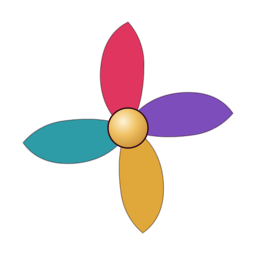
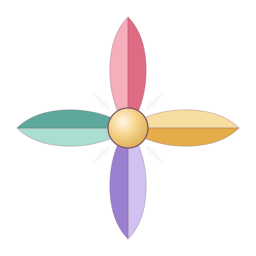
Rework branding into a compass rose: pastel palette, cozy + adventurous
The 4-petal-per-distro concept stays (still one point per merged
distro: Bazzite, SteamOS, Nobara, Mint), but reworked to lean into
what "Rosaline" is actually named for -- a rose, and a nod to Atelier
Resleriana's cozy-but-adventurous tone:

- mark.svg: petals redrawn as symmetric compass-needle/kite shapes at
  true 90-degree spacing (reads more intentional than the old organic,
  unevenly-spaced teardrop petals), each split into a lighter/darker
  half for a faceted-gem look, plus small intercardinal ticks between
  the main points like a real compass rose. Palette softened to pastel
  throughout -- same four hues, gentler, not a from-scratch rebrand.
- wallpaper.svg: warmer dusk gradient instead of cool ink/plum, a
  scatter of small stars for the cozy half, a faint dashed
  travelled-path line curving through the scene for the adventurous
  half (implies a journey without drawing a literal map), watermark
  mark updated to match.
- wordmark.svg, render.py's Plymouth spinner colors, the wallpaper's
  gnome-background-properties fallback color, and the Plymouth boot
  script's own hardcoded background gradient (the one piece not driven
  by render.py, easy to miss) all updated to match.
- README.md documents the concept and the new palette.

All system_files/ PNGs/SVGs regenerated via render.py and spot-checked
at both full wallpaper resolution and down to a 16px icon.

Changed region(s): [[0.0625, 0.0625, 0.9375, 0.9375]]

diff --git a/assets/branding/render.py b/assets/branding/render.py
@@ -22,7 +22,7 @@ WALLPAPER_SVG = HERE / "wallpaper.svg"
 
 ICON_SIZES = [16, 22, 24, 32, 48, 64, 128, 256, 512]
 
-PETAL_COLORS = ["#E0355F", "#7C4DBB", "#E0A83A", "#2E9CA6"]
+PETAL_COLORS = ["#F0879B", "#F3C56E", "#B79FE3", "#7FC4B8"]
 
 
 def render_icons():
@@ -72,8 +72,8 @@ def render_wallpaper():
     <filename>/usr/share/backgrounds/rosaline-os/rosaline-default.png</filename>
     <options>zoom</options>
     <shade_type>solid</shade_type>
-    <pcolor>#16121A</pcolor>
-    <scolor>#16121A</scolor>
+    <pcolor>#242038</pcolor>
+    <scolor>#242038</scolor>
   </wallpaper>
 </wallpapers>
 """

diff --git a/assets/branding/README.md b/assets/branding/README.md
@@ -4,13 +4,15 @@ Editable source files for Rosaline OS's visual identity. These are not
 copied into the image directly — `render.py` rasterizes them into the
 actual installed files under `system_files/`.
 
-- `mark.svg` — the icon/logo mark alone (four-petal bloom: one petal per
-  merged distro, unified around a center gem). Used for the hicolor icon
-  theme, pixmaps, and as the base of the wallpaper's watermark.
+- `mark.svg` — the icon/logo mark alone (a four-point compass rose:
+  one point per merged distro, unified around a center gem). Used for
+  the hicolor icon theme, pixmaps, and as the base of the wallpaper's
+  watermark.
 - `wordmark.svg` — mark + "ROSALINE / OPERATING SYSTEM" lockup, on a
   transparent background. Used as the Plymouth boot logo.
-- `wallpaper.svg` — the default desktop wallpaper (dark gradient +
-  colored aura + watermark bloom), 3840×2160.
+- `wallpaper.svg` — the default desktop wallpaper (dusk gradient,
+  colored aura, a scatter of stars, a faint travelled-path line, and
+  the watermark mark), 3840×2160.
 - `render.py` — regenerates every PNG/SVG under `system_files/` from the
   three files above.
 
@@ -18,25 +20,54 @@ actual installed files under `system_files/`.
 
 1. Edit the relevant `.svg` (plain text, no special tools required —
    any vector editor like Inkscape works too if you prefer a GUI).
+   Careful with XML comments: `--` isn't allowed anywhere inside one,
+   only immediately before the closing `-->` — cairosvg fails to parse
+   the whole file otherwise (found the hard way while writing this
+   version).
 2. `pip install cairosvg pillow` (once).
 3. `python3 assets/branding/render.py` from the repo root.
 4. Check `git diff --stat system_files/` to see what changed, and spot
    check a couple of the regenerated PNGs before committing.
 
+## Concept
+
+"Rosaline" reads two ways on purpose: a rose bloom, and a nod to
+*Atelier Resleriana*'s cozy-but-adventurous tone. The mark leans into
+both at once by being a **compass rose** — a shape that's already both
+a flower and a navigation symbol before you even add a theme to it.
+Each of the four points is still one petal per merged distro (Bazzite,
+SteamOS, Nobara, Mint), same idea as the original mark, just redrawn
+as a symmetric needle/kite shape at true 90-degree spacing (a real
+compass rose reads more intentional than the original's organic,
+unevenly-spaced petals) and split into a lighter/darker half each,
+like a faceted gem or a needle catching light from one side. Small
+ticks between the four main points echo a compass rose's
+intercardinal marks.
+
+The wallpaper carries the "cozy" and "adventurous" halves separately:
+a warm dusk sky (not a cold night one) and a scatter of small stars
+for cozy, a faint dashed path curving through the scene for
+adventurous, without literally drawing a map.
+
 ## Palette
 
-| Role          | Hex       |
-|---------------|-----------|
-| Ink (base)    | `#16121A` |
-| Ink (light)   | `#1B1420` |
-| Rose          | `#E0355F` |
-| Violet        | `#7C4DBB` |
-| Gold          | `#E0A83A` |
-| Teal          | `#2E9CA6` |
-| Off-white     | `#F5EDE9` |
+| Role              | Hex       |
+|-------------------|-----------|
+| Dusk sky (top)    | `#242038` |
+| Dusk sky (mid)    | `#362C46` |
+| Dusk sky (bottom) | `#4E3A47` |
+| Rose (light/dark) | `#F6AEBB` / `#E06B82` |
+| Gold (light/dark) | `#F8DDA0` / `#E5AC49` |
+| Lavender (l/dark) | `#D2C2F2` / `#9B7FD1` |
+| Teal (light/dark) | `#ABDED2` / `#5CA99B` |
+| Gem gradient      | `#FFF8E7` → `#F6D48C` → `#D9A84E` |
+| Outline (muted)   | `#7A5568` |
+| Off-white         | `#F5EDE9` |
 
-The four petal colors (rose, violet, gold, teal) aren't meant to map
-1:1 onto SteamOS/Bazzite/Nobara/Mint's actual brand colors — they're a
-distinct jewel-tone palette chosen to read well together, with the
-"four petals, one bloom" shape carrying the "four distros merged into
-one" idea instead.
+Softer/pastel versions of the original palette's four hues, not a
+different set of colors entirely — the goal was "the same identity,
+gentler," not a from-scratch rebrand. The four point colors still
+aren't meant to map 1:1 onto SteamOS/Bazzite/Nobara/Mint's actual
+brand colors; the shape carries the "four distros merged into one"
+idea, the color is just there to read well and stay distinguishable
+point to point.
